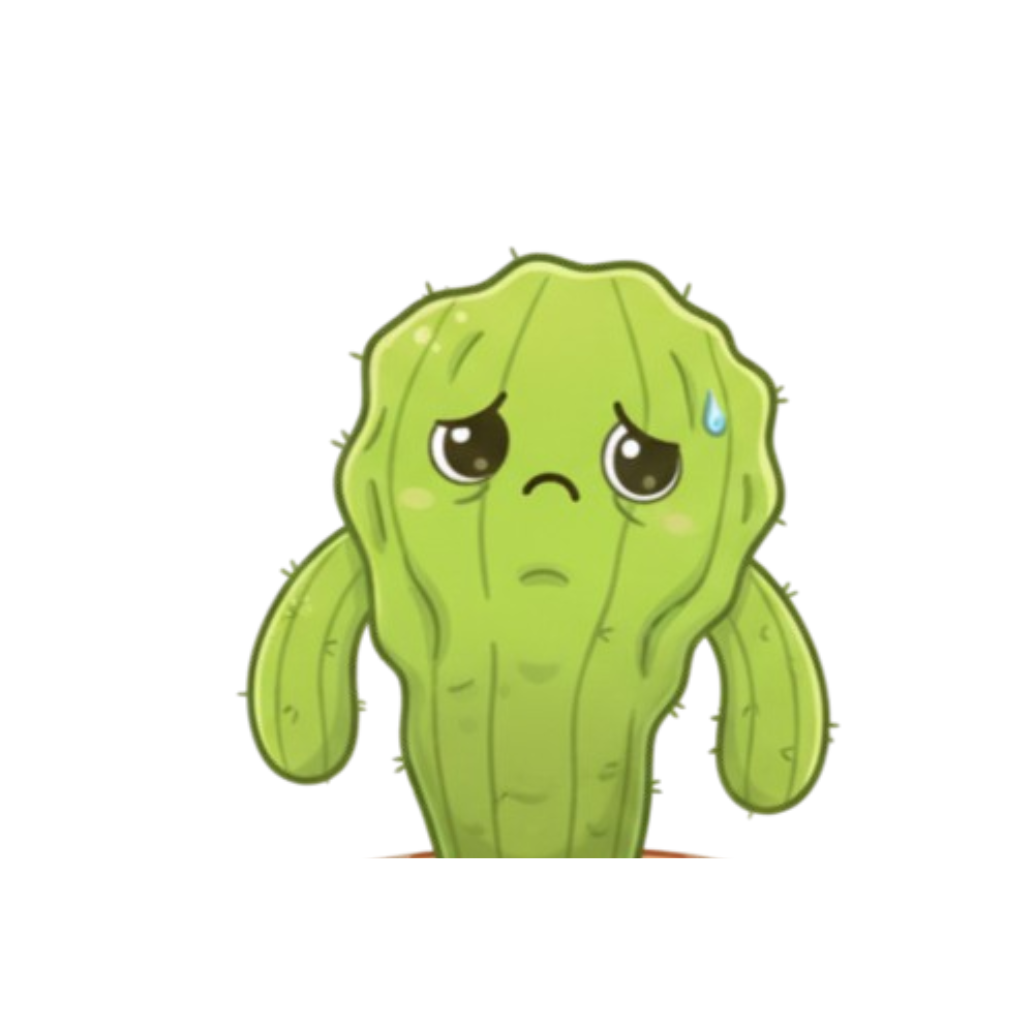
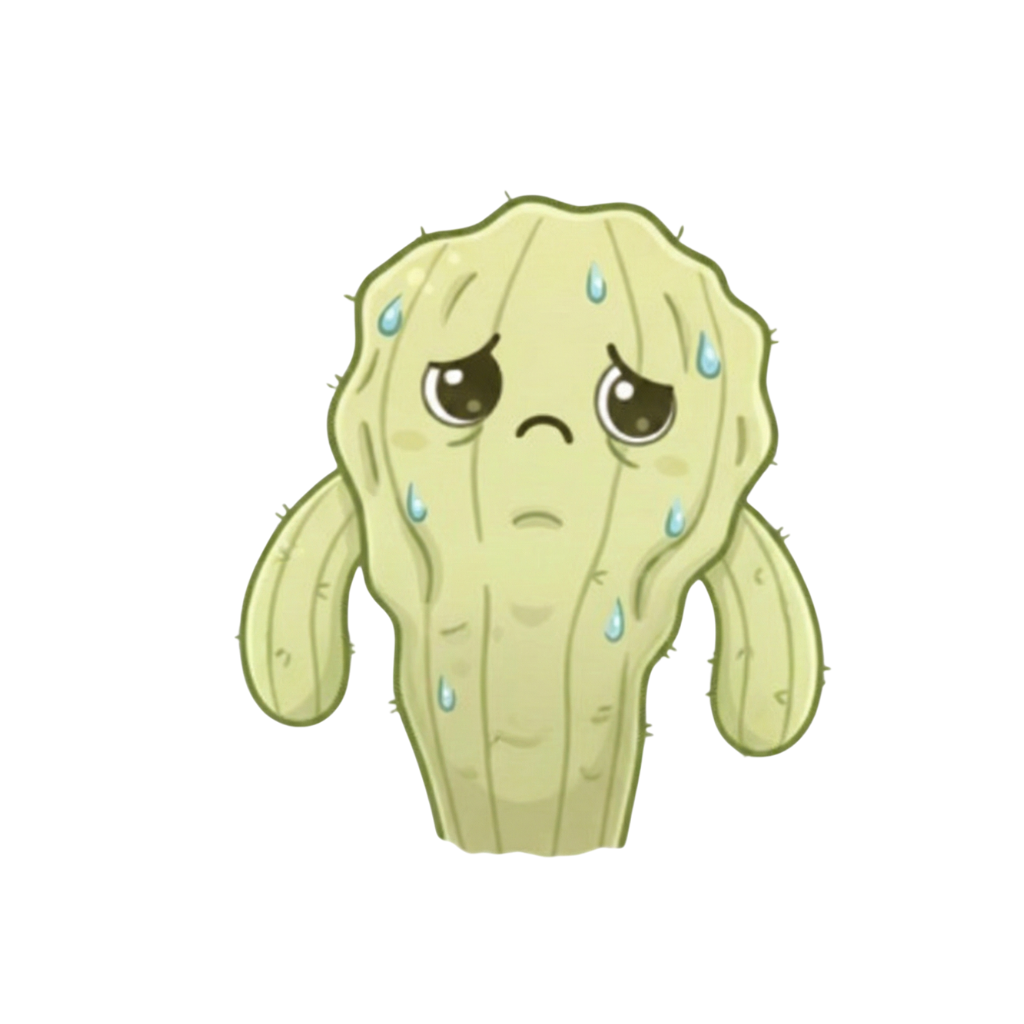
feat: Implement adding water by re-pressing the home tab, adjust plant image margin, and update castus-sad.png.

Changed region(s): [[0.2188, 0.1875, 0.8125, 0.8438]]

diff --git a/src/screens/HomeScreen.tsx b/src/screens/HomeScreen.tsx
@@ -1,15 +1,24 @@
 import React from 'react';
-import { StyleSheet, Text, View, TouchableOpacity, Image, ImageBackground, Dimensions } from 'react-native';
+import { StyleSheet, Text, View, TouchableOpacity, Image, ImageBackground, Dimensions, DeviceEventEmitter } from 'react-native';
 import { StatusBar } from 'expo-status-bar';
 import { Award } from 'lucide-react-native';
 
 const { width, height } = Dimensions.get('window');
 
-//              onPress={handleDrinkWater}
 export default function HomeScreen() {
     const [waterCount, setWaterCount] = React.useState(0);
     const DAILY_GOAL = 8;
     const GLASS_VOLUME = 250; // ml
+
+    React.useEffect(() => {
+        const subscription = DeviceEventEmitter.addListener('addWater', () => {
+            setWaterCount(prev => prev + 1);
+        });
+
+        return () => {
+            subscription.remove();
+        };
+    }, []);
 
     const handleDrinkWater = () => {
         setWaterCount(prev => prev + 1);
@@ -214,7 +223,7 @@ const styles = StyleSheet.create({
     plantImage: {
         width: 250,
         height: 250,
-        marginBottom: -90, // Overlap with pot
+        marginBottom: -85, // Overlap with pot
         zIndex: 1,
     },
     potImage: {

diff --git a/src/navigation/BottomTabNavigator.tsx b/src/navigation/BottomTabNavigator.tsx
@@ -1,4 +1,4 @@
-import React from 'react';
+import { DeviceEventEmitter } from 'react-native';
 import { LinearGradient } from 'expo-linear-gradient';
 import { createBottomTabNavigator } from '@react-navigation/bottom-tabs';
 import { useSafeAreaInsets } from 'react-native-safe-area-context';
@@ -78,6 +78,14 @@ export default function BottomTabNavigator() {
             <Tab.Screen
                 name="Home"
                 component={HomeScreen}
+                listeners={({ navigation }) => ({
+                    tabPress: (e) => {
+                        if (navigation.isFocused()) {
+                            e.preventDefault();
+                            DeviceEventEmitter.emit('addWater');
+                        }
+                    },
+                })}
             />
             <Tab.Screen
                 name="School"
